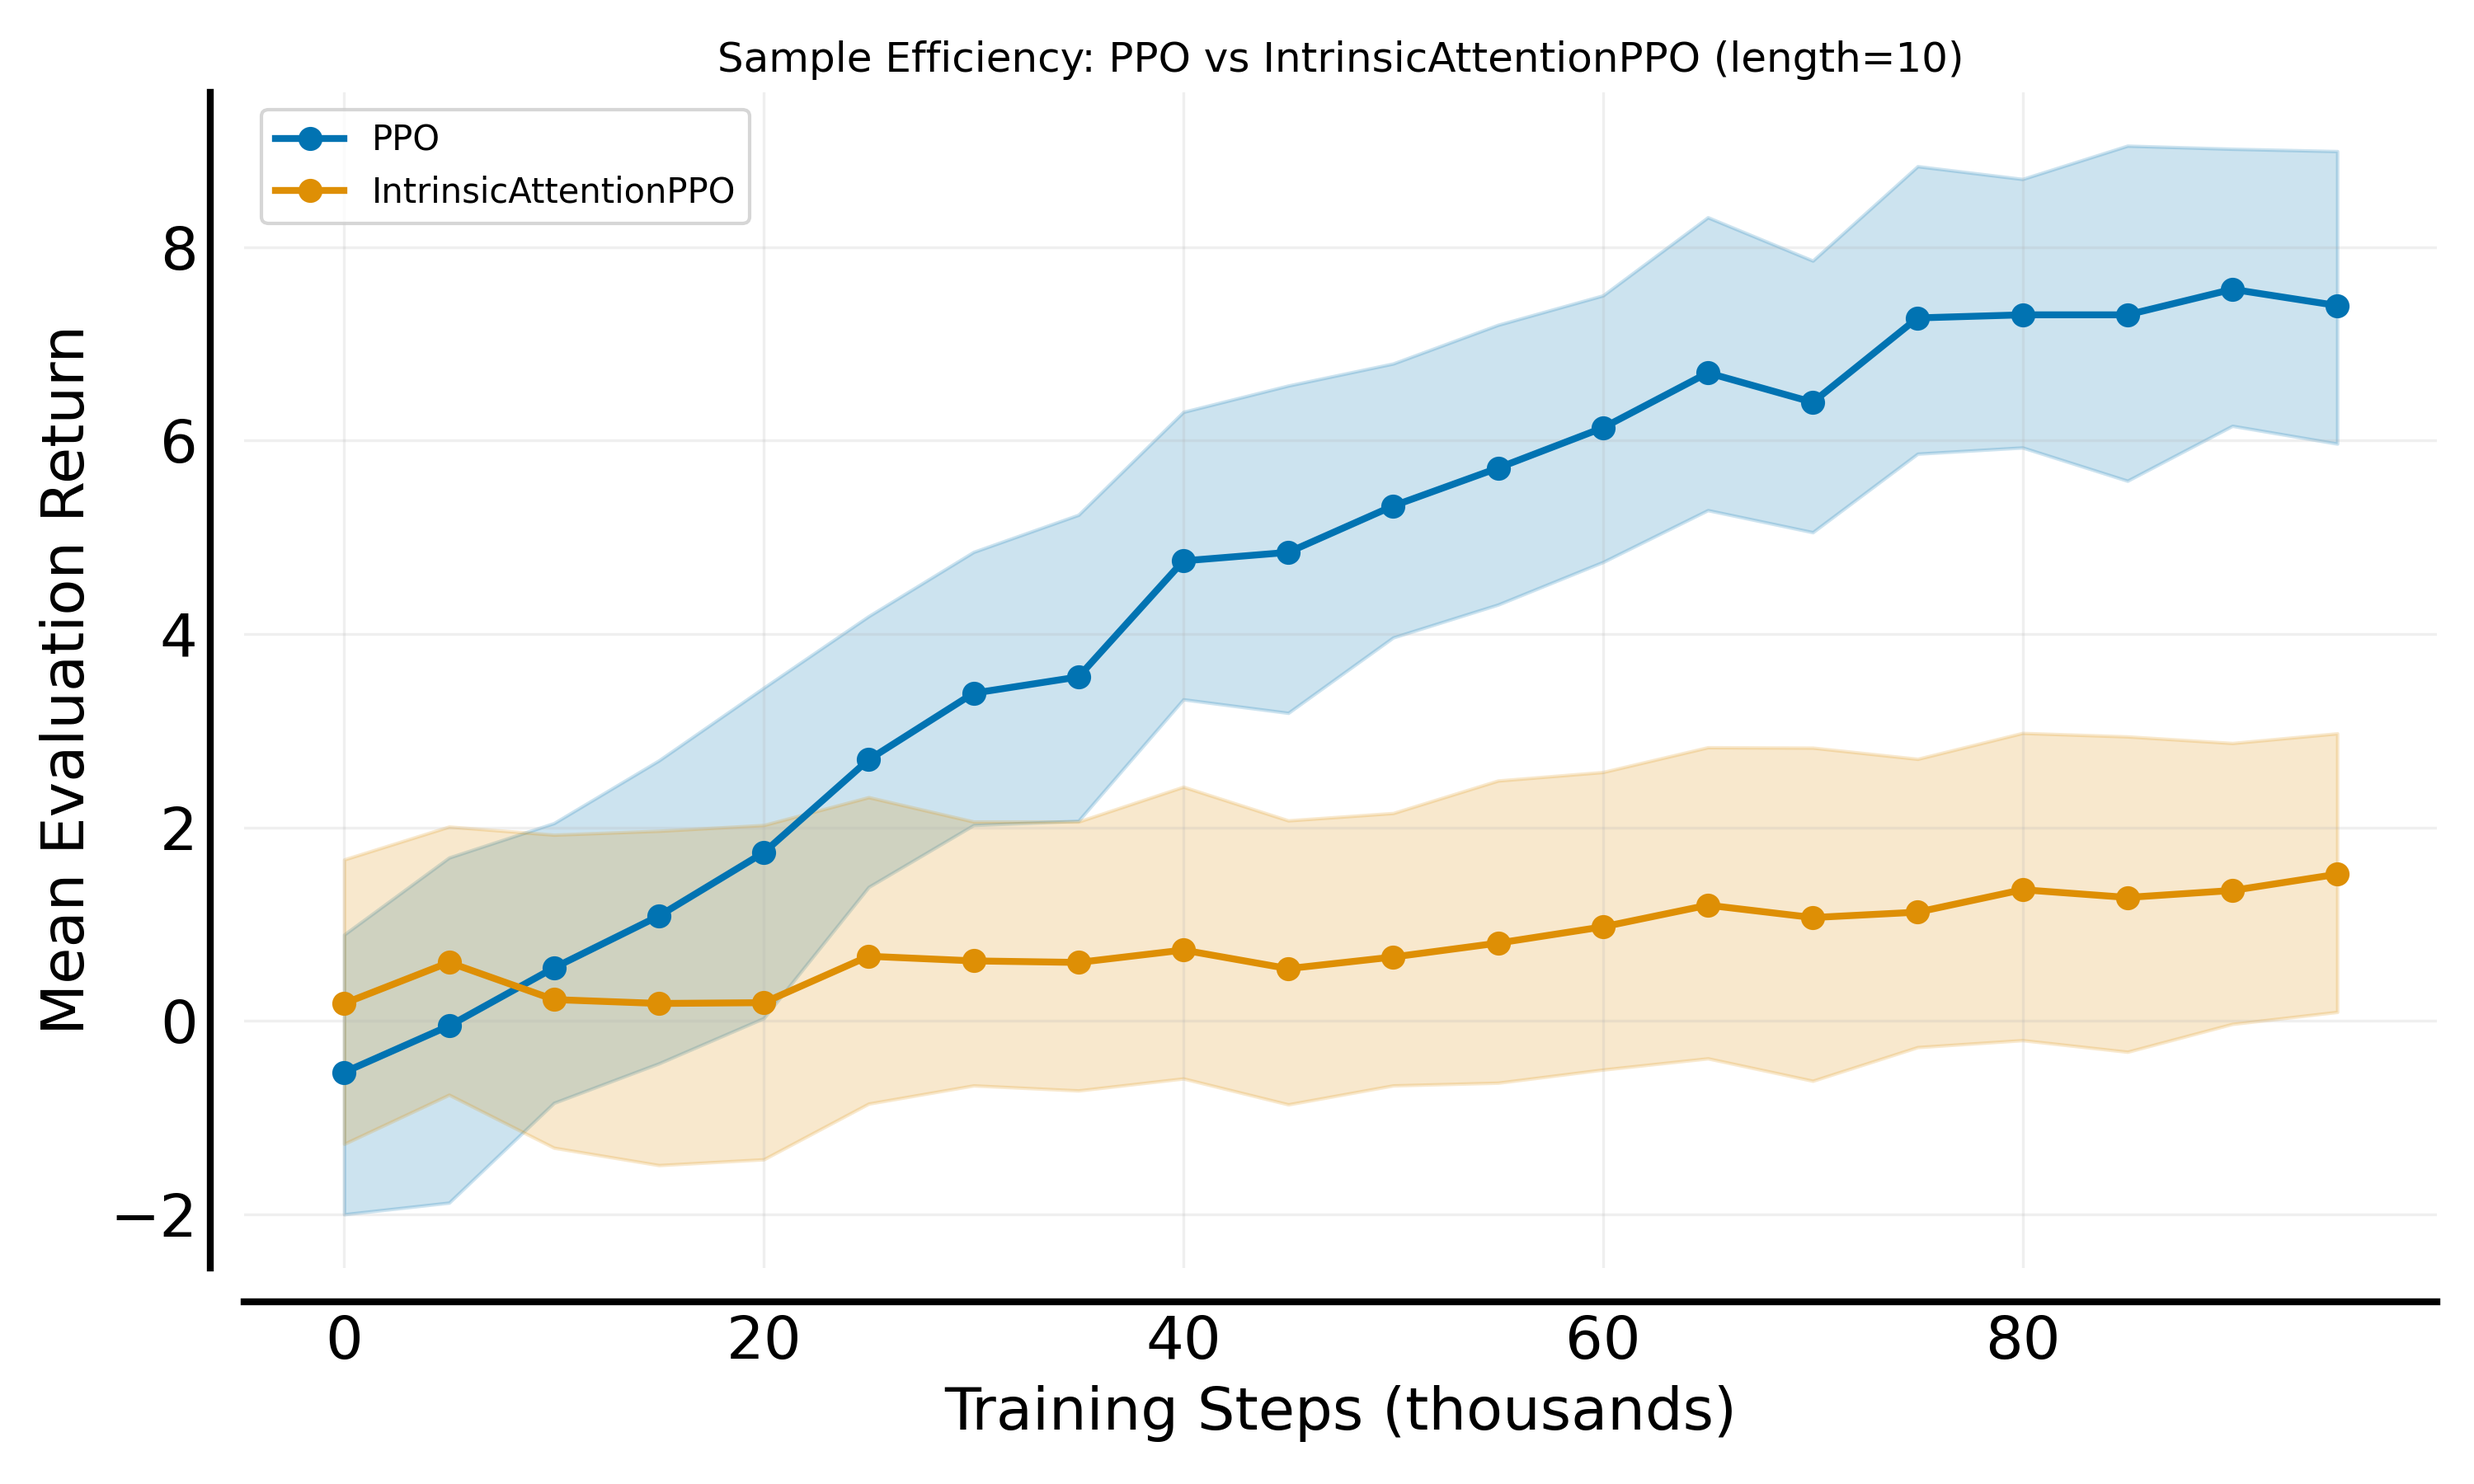
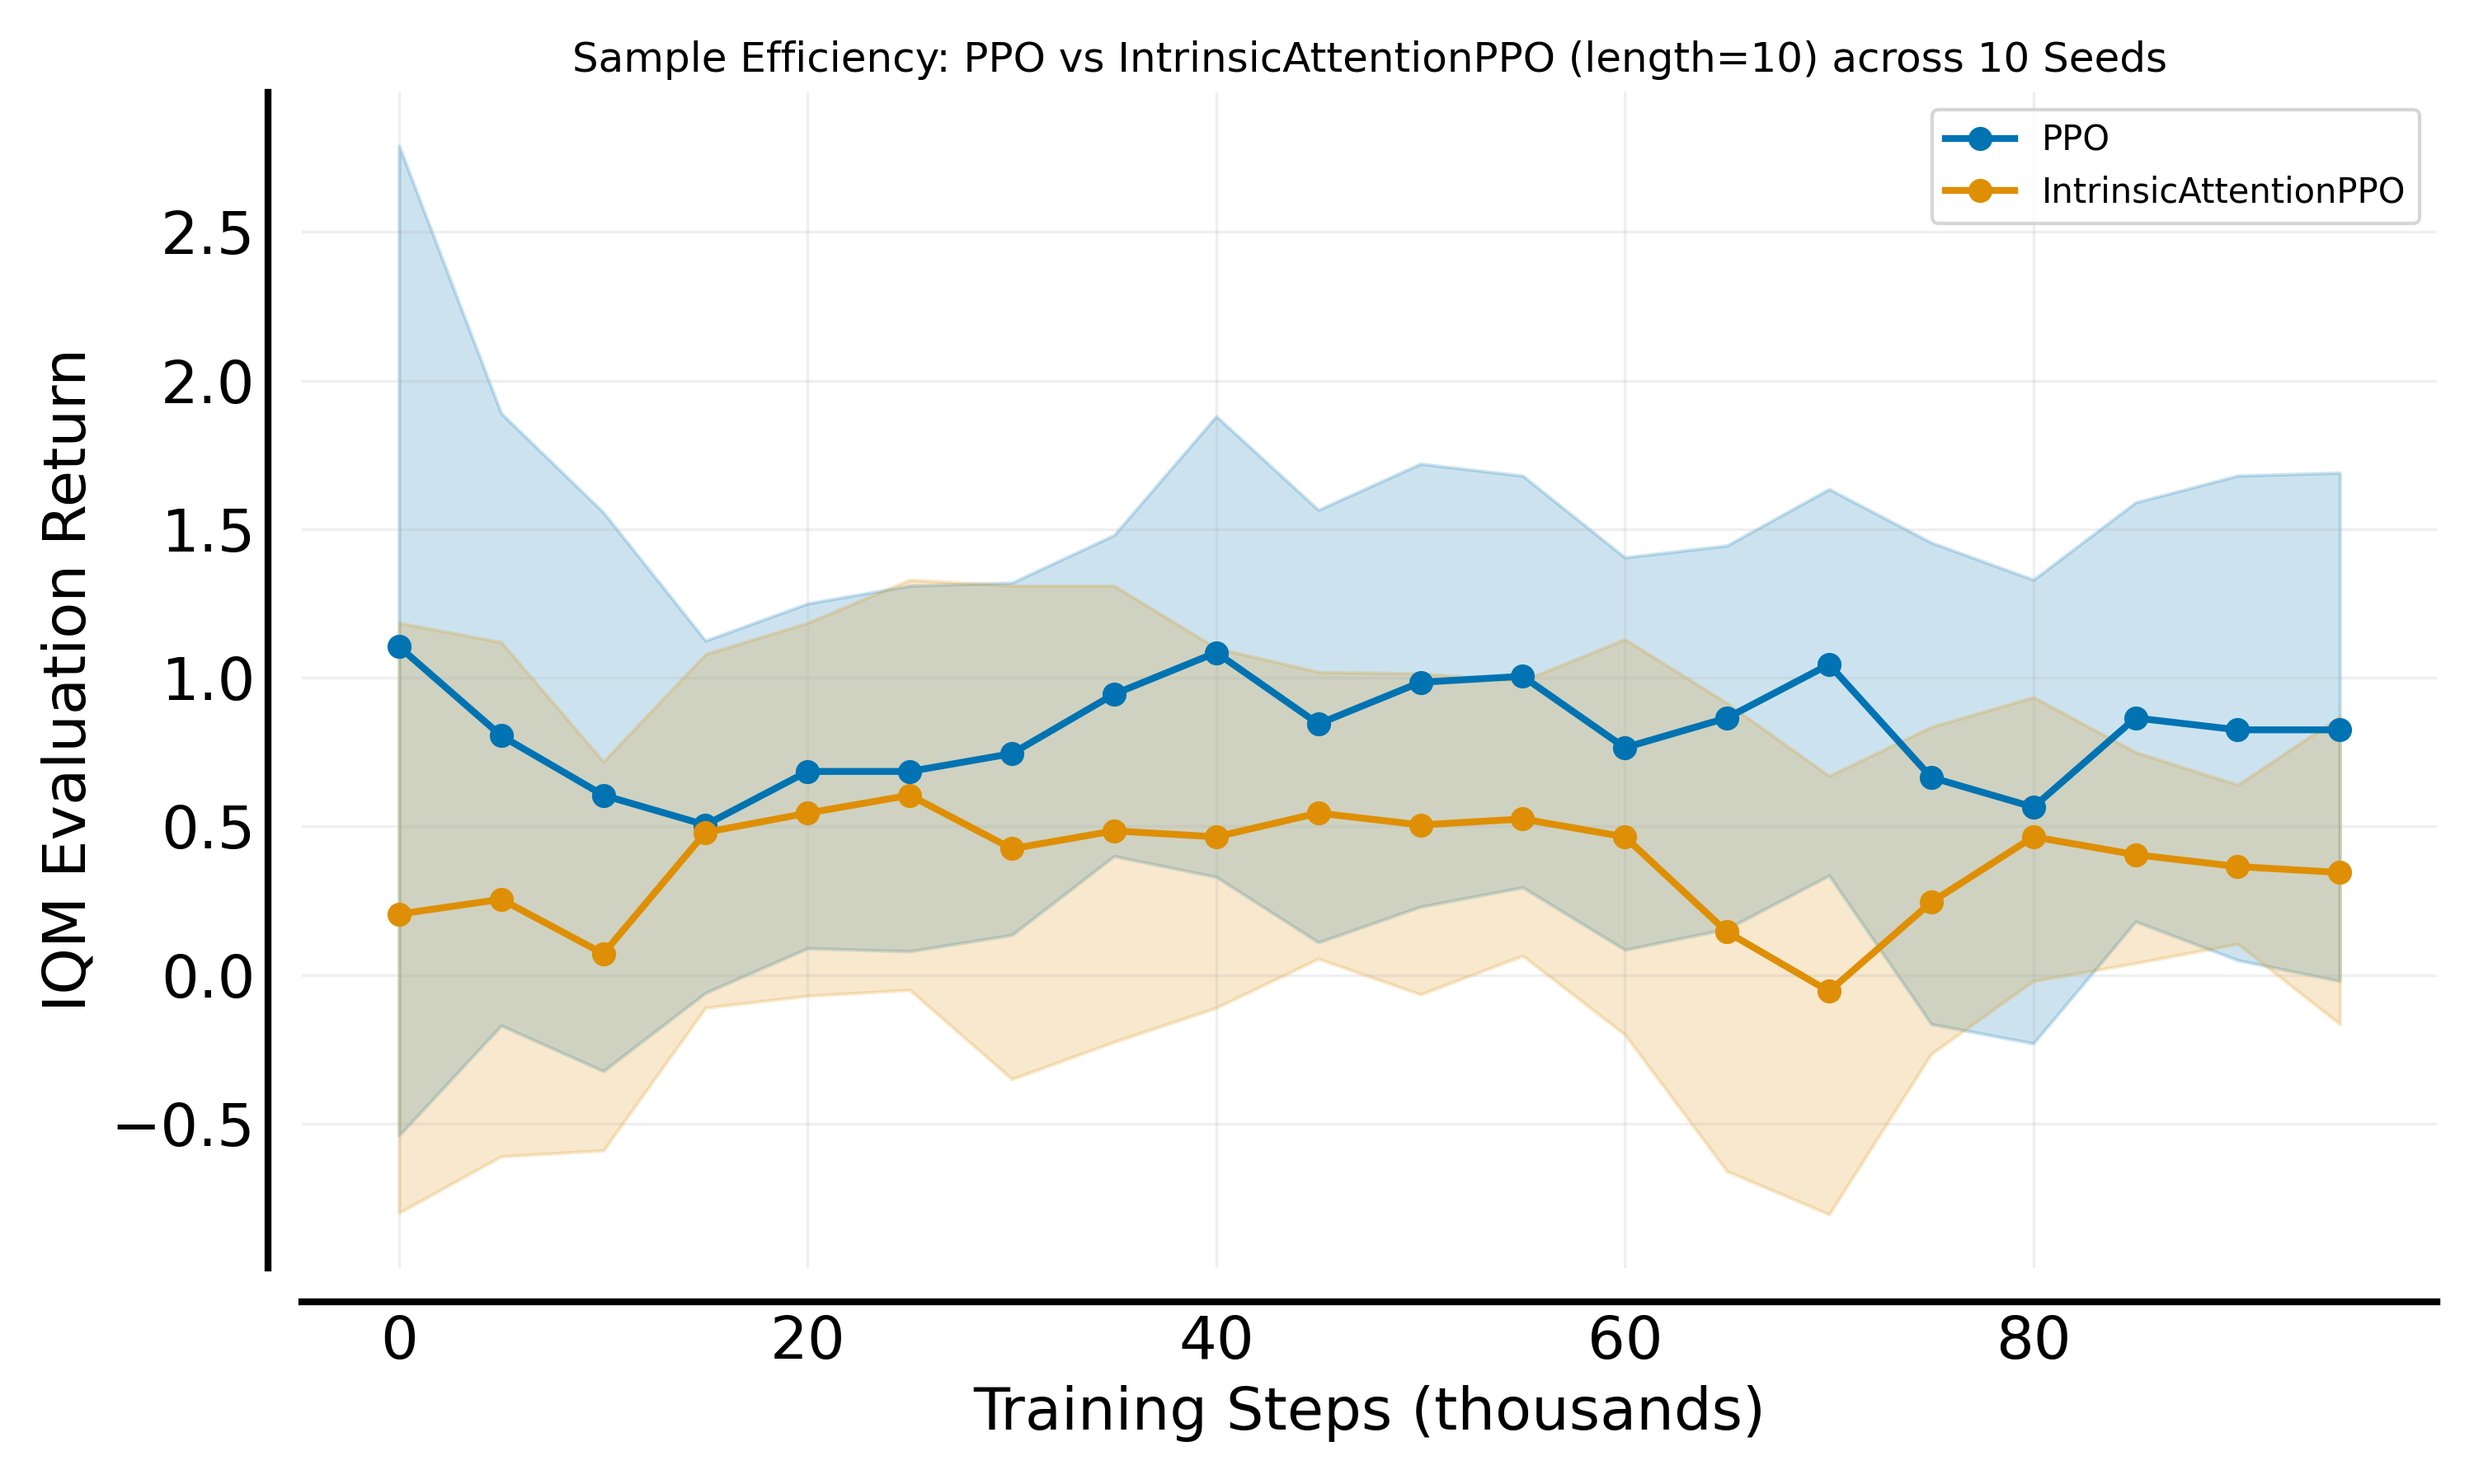
More rlliable plots

diff --git a/source/experiments/plots/sample_efficency.py b/source/experiments/plots/sample_efficency.py
@@ -68,8 +68,9 @@ def extract_episode_returns(
                     data = json.loads(line)
                     # Extrahiere episode_return_mean, falls vorhanden
                     erm = (
-                        #  data.get("evaluation", {})
-                        data.get("env_runners", {}).get("episode_return_mean")
+                        data.get("evaluation", {})
+                        .get("env_runners", {})
+                        .get("episode_return_mean")
                     )
                     if erm is not None:
                         episode_returns.append(erm)
@@ -156,7 +157,6 @@ def plot_sample_efficiency_comparison(
             """
             Compute the Inverse of the Interquartile Mean (IQM) for given scores.
             """
-            return np.mean(scores, axis=0)
             return np.array(
                 [
                     metrics.aggregate_mean(scores[..., frame])
@@ -172,17 +172,76 @@ def plot_sample_efficiency_comparison(
             iqm_cis,
             algorithms=list(data.keys()),
             xlabel="Training Steps (thousands)",
-            ylabel="Mean Evaluation Return",
+            ylabel="IQM Evaluation Return",
             ax=ax,
         )
         ax.set_title(
-            f"Sample Efficiency: PPO vs IntrinsicAttentionPPO (length={length})"
+            f"Sample Efficiency: PPO vs IntrinsicAttentionPPO (length={length}) across 10 Seeds"
         )
         ax.legend()
         ax.grid(True)
         plt.tight_layout()
         plt.savefig(f"{save_dir}/sample_efficiency_length_{length}.png", dpi=300)
         plt.close(fig)
+
+
+def plot_sample_efficiency_final_vs_length(
+    ppo_data: Dict[int, np.ndarray],
+    intrinsic_data: Dict[int, np.ndarray],
+    save_path="rliable_plots/sample_efficiency_final_vs_length.png",
+):
+    """
+    Sample Efficiency Plot: x-Achse = Length, y-Achse = IQM der letzten Evaluation (über Seeds) mit Unsicherheiten.
+    """
+    import matplotlib.pyplot as plt
+    import numpy as np
+    from rliable import library as rly
+    from rliable import metrics
+
+    lengths = sorted(ppo_data.keys())
+    data = {
+        "PPO": [],
+        "IntrinsicAttentionPPO": [],
+    }
+    cis = {
+        "PPO": [],
+        "IntrinsicAttentionPPO": [],
+    }
+
+    for length in lengths:
+        # Shape: (n_seeds, 1, n_evals)
+        ppo_scores = ppo_data[length][:, 0, -1][:, np.newaxis]  # Shape (n_seeds, 1)
+        intrinsic_scores = intrinsic_data[length][:, 0, -1][:, np.newaxis]
+
+        def iqm(scores):
+            return metrics.aggregate_iqm(scores)
+
+        scores_dict = {
+            "PPO": ppo_scores,
+            "IntrinsicAttentionPPO": intrinsic_scores,
+        }
+        iqm_scores, iqm_cis = rly.get_interval_estimates(scores_dict, iqm, reps=10000)
+        for alg in data.keys():
+            data[alg].append(iqm_scores[alg])
+            cis[alg].append(iqm_cis[alg])
+
+    # Sample Efficiency Plot (analog zu plot_utils.plot_sample_efficiency_curve)
+    fig, ax = plt.subplots(figsize=(10, 6))
+    for alg, color in zip(data.keys(), ["tab:blue", "tab:orange"]):
+        means = np.array(data[alg])
+        lowers = np.array([ci[0] for ci in cis[alg]])
+        uppers = np.array([ci[1] for ci in cis[alg]])
+        ax.plot(lengths, means, label=alg, color=color)
+        # ax.fill_between(lengths, lowers, uppers, color=color, alpha=0.2)
+
+    ax.set_xlabel("Length")
+    ax.set_ylabel("IQM Final Evaluation Return")
+    ax.set_title("Sample Efficiency: Final Evaluation vs Length (IQM ± CI)")
+    ax.legend()
+    ax.grid(True)
+    plt.tight_layout()
+    plt.savefig(save_path, dpi=300)
+    plt.close(fig)
 
 
 if __name__ == "__main__":
@@ -195,8 +254,9 @@ if __name__ == "__main__":
     ppo_data = aggregate_by_length(ppo_episode_returns)
     intrinsic_data = aggregate_by_length(intrinsic_episode_returns)
 
-    plot_sample_efficiency_comparison(ppo_data, intrinsic_data)
+    # plot_sample_efficiency_comparison(ppo_data, intrinsic_data)
 
+    plot_sample_efficiency_final_vs_length(ppo_data, intrinsic_data)
     import pprint
 
     # pprint.pprint(ppo_episode_returns)
